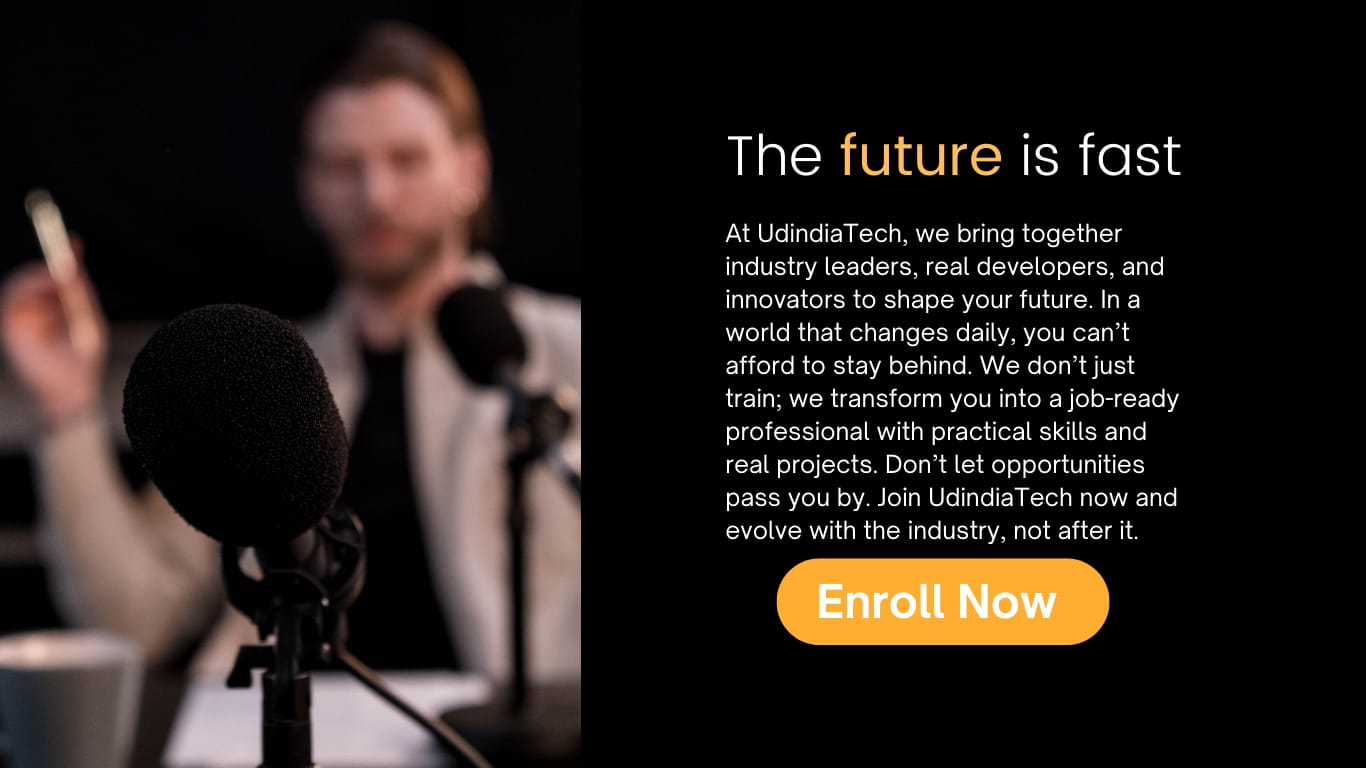
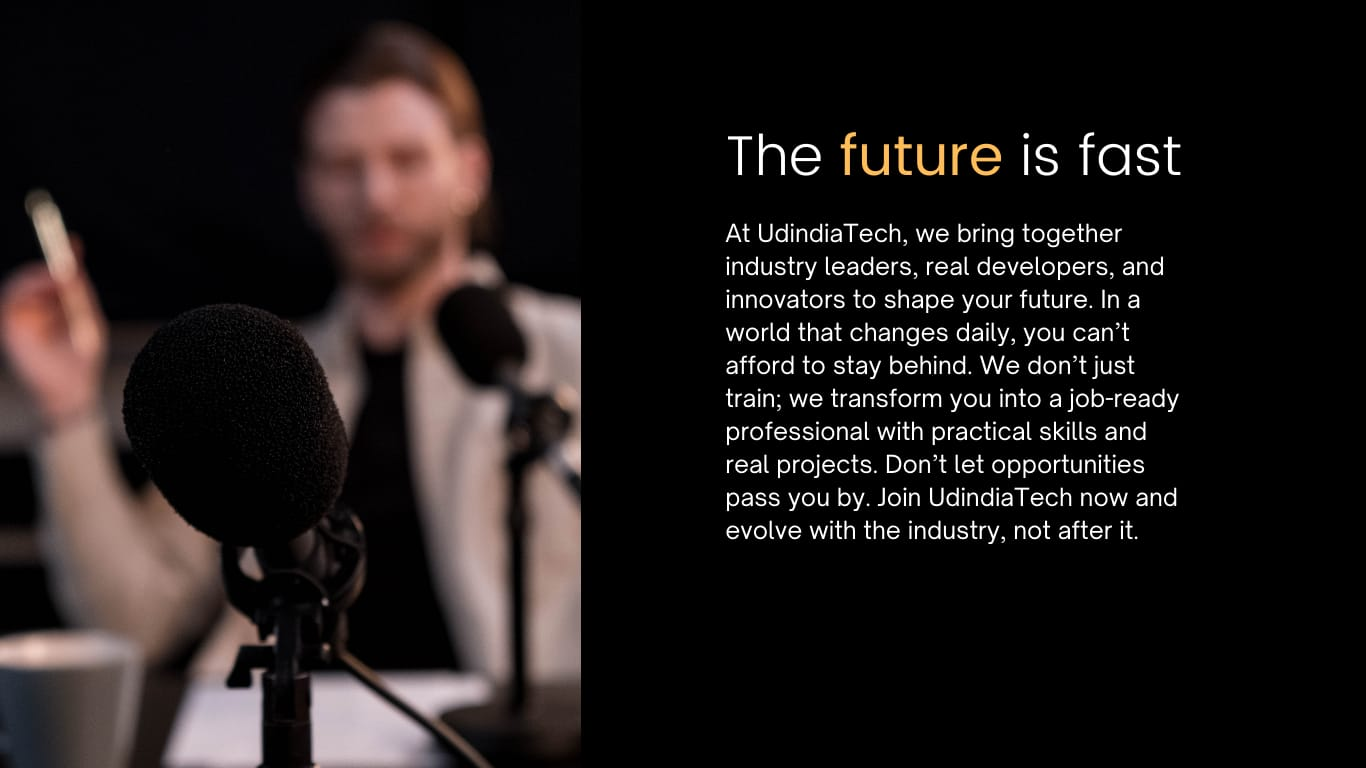
images nested folder, enroll form added, training image, why to choose

Changed region(s): [[0.5534, 0.7188, 0.8302, 0.8438]]

diff --git a/index.html b/index.html
@@ -5,6 +5,7 @@
   <meta charset="UTF-8">
   <meta name="viewport" content="width=device-width, initial-scale=1.0">
   <title>UdindiaTech - Premium IT Training</title>
+  <link rel="icon" href="images/UD logo.jpg" type="image/x-icon">
   <link rel="stylesheet" href="style.css" />
   <!-- tailwind adding -->
   <script src="https://cdn.tailwindcss.com"></script>
@@ -111,8 +112,8 @@
       padding: 40px 20px;
       text-align: center;
     }
-
-    .courses,
+/* partners css    style */
+    /* .courses, */
     .partners {
       display: flex;
       flex-wrap: wrap;
@@ -120,12 +121,12 @@
       gap: 20px;
     }
 
-    .course {
+    /* .course {
       background: #f0f0f0;
       padding: 15px;
       border-radius: 8px;
       width: 200px;
-    }
+    } */
 
     .partner {
       /* background: #f0f0f0; */
@@ -137,7 +138,7 @@
     /* ======================================== */
     .partner>a>img {
       border-radius: 20px;
-      height: 8rem;
+      height: 7rem;
       width: 12rem;
 
     }
@@ -149,6 +150,43 @@
       text-align: center;
       padding: 20px;
     }
+
+    /* Course css */
+ .courses {
+  display: grid;
+  grid-template-columns: repeat(auto-fit, minmax(220px, 1fr));
+  gap: 20px;
+  padding: 0 20px;
+}
+
+.course-card {
+  background: #f9f9f9;
+  border: 1px solid #ddd;
+  border-radius: 10px;
+  overflow: hidden;
+  text-align: center;
+  text-decoration: none;
+  color: black;
+  transition: 0.3s;
+}
+
+.course-card:hover {
+  transform: translateY(-5px);
+  box-shadow: 0 10px 20px rgba(0, 0, 0, 0.1);
+}
+
+.course-card img {
+  width: 100%;
+  height: 150px;
+  object-fit: cover;
+}
+
+.course-card div {
+  padding: 15px;
+}
+.hidden-course {
+  display: none;
+}
 
     @media(max-width:600px) {
 
@@ -220,12 +258,13 @@
     <!-- Navigation Links -->
     <div class="nav-links" id="navLinks">
       <a href="#">Home</a>
-      <a href="#courses">Courses</a>
+      <a href="#Trainings">Trainings</a>
       <a href="#partners">Placements</a>
       <a href="#about">About</a>
       <a href="#testimonials">Testimonials</a>
       <a href="#contact">Contact</a>
-      <a href="#enroll" class="button">Enroll Now</a>
+      <a href="https://docs.google.com/forms/d/e/1FAIpQLSdadHimci_y-aQBjbMR57K5SyL8CN7SacE4-4gFTyedFW6GAA/viewform"
+        target="_blank" class="button">Enroll Now</a>
     </div>
   </div>
   <!-- Slider -->
@@ -241,6 +280,16 @@
       </div>
       <div class="swiper-slide">
         <img src="images/Slider2.jpeg" alt="Slide 2" class="w-full h-full object-cover" />
+        <!-- Enroll button -->
+        <a href="https://docs.google.com/forms/d/e/1FAIpQLSdadHimci_y-aQBjbMR57K5SyL8CN7SacE4-4gFTyedFW6GAA/viewform"
+          target="_blank" class="absolute bottom-4 left-[70%] -translate-x-1/2
+            sm:bottom-10 sm:left-[70%] sm:-translate-x-1/2
+            bg-yellow-400 text-black font-semibold
+            text-xs px-3 py-2
+            sm:text-lg sm:px-6 sm:py-2
+            rounded-full shadow-md hover:bg-yellow-500 transition z-10">
+          Enroll Now
+        </a>
       </div>
       <div class="swiper-slide">
         <img src="images/Slider3.jpeg" alt="Slide 3" class="w-full h-full object-cover" />
@@ -290,33 +339,137 @@
 
 
   <!-- Our Training -->
-  <div class="section" id="courses">
-    <h2 class="text-4xl font-bold text-center text-black mb-8">Our Training Programs</h2>
-    <div class="courses">
-      <div class="course"><strong>Python Full Stack</strong><br>₹4,399/-<br>3 Months</div>
-      <div class="course"><strong>Java Full Stack</strong><br>₹4,999/-<br>3 Months</div>
-      <div class="course"><strong>MERN Stack</strong><br>₹4,399/-<br>3 Months</div>
-      <div class="course"><strong>UI/UX Design</strong><br>₹2,399/-<br>2 Months</div>
-      <div class="course"><strong>Cloud/DevOps</strong><br>₹4,999/-<br>2 Months</div>
-      <div class="course"><strong>Data Analyst</strong><br>₹3,999/-<br>2 Months</div>
-    </div>
+<div class="section" id="Trainings">
+  <h2 class="text-4xl font-bold text-center text-black mb-8">Our Training Programs</h2>
+
+  <div class="courses">
+    <a id="enrollBtn1" target="_blank" href="https://example.com/python-form" class="course-card">
+      <img src="images/Course/python_fsd.png" alt="Python Full Stack" />
+      <div><strong>Python Full Stack</strong><br><small><i>Durations:</i>&nbsp;3 Months</small><br><small
+          class="text-gray-600">Know more</small></div>
+    </a>
+
+    <a id="enrollBtn2" target="_blank" href="https://example.com/java-form" class="course-card">
+      <img src="images/Course/java_fsd.png" alt="Java Full Stack" />
+      <div><strong>Java Full Stack Developer</strong><br><small><i>Durations:</i>&nbsp;3 Months</small><br><small
+          class="text-gray-600">Know more</small></div>
+    </a>
+
+    <a id="enrollBtn3" target="_blank" href="https://example.com/java-form" class="course-card">
+      <img src="images/Course/mern_fsd.png" alt="MERN Stack Developer" />
+      <div><strong>MERN Stack Developer</strong><br><small><i>Durations:</i>&nbsp;3 Months</small><br><small
+          class="text-gray-600">Know more</small></div>
+    </a>
+
+    <a id="enrollBtn4" target="_blank" href="https://example.com/java-form" class="course-card">
+      <img src="images/Course/php_develper.png" alt="PHP Developer–Laravel" />
+      <div><strong>PHP Developer–Laravel</strong><br><small><i>Durations:</i>&nbsp;3 Months</small><br><small
+          class="text-gray-600">Know more</small></div>
+    </a>
+
+    <a id="enrollBtn5" target="_blank" href="https://example.com/java-form" class="course-card">
+      <img src="images/Course/frontend_developer.png" alt="Frontend Developer - React JS " />
+      <div><strong>Frontend Developer - React JS </strong><br><small><i>Durations:</i>&nbsp;3 Months</small><br><small
+          class="text-gray-600">Know more</small></div>
+    </a>
+
+    <a id="enrollBtn6" target="_blank" href="https://example.com/java-form" class="course-card">
+      <img src="images/Course/backend_developer.png" alt="Backend Developer" />
+      <div><strong>Backend Developer</strong><br><small><i>Durations:</i>&nbsp;3 Months</small><br><small
+          class="text-gray-600">Know more</small></div>
+    </a>
+    <a id="enrollBtn7" target="_blank" href="https://example.com/java-form" class="course-card">
+      <img src="images/Course/UIUX.png" alt="UI/UX" />
+      <div><strong>UI/UX</strong><br><small><i>Durations:</i>&nbsp;3 Months</small><br><small
+          class="text-gray-600">Know more</small></div>
+    </a>
+    <a id="enrollBtn8" target="_blank" href="https://example.com/java-form" class="course-card">
+      <img src="images/Course/data_analyst.png" alt="Data Analyst" />
+      <div><strong>Data Analyst</strong><br><small><i>Durations:</i>&nbsp;3 Months</small><br><small
+          class="text-gray-600">Know more</small></div>
+    </a>
+    <a id="enrollBtn9" target="_blank" href="https://example.com/java-form" class="course-card">
+      <img src="images/Course/data_mining.png" alt="Data Mining Specialist" />
+      <div><strong>Data Mining Specialist</strong><br><small><i>Durations:</i>&nbsp;3 Months</small><br><small
+          class="text-gray-600">Know more</small></div>
+    </a>
+    <a id="enrollBtn10" target="_blank" href="https://example.com/java-form" class="course-card">
+      <img src="images/Course/digital_marketing.png" alt="Digital Marketing" />
+      <div><strong>Digital Marketing</strong><br><small><i>Durations:</i>&nbsp;3 Months</small><br><small
+          class="text-gray-600">Know more</small></div>
+    </a>
+    <a id="enrollBtn11" target="_blank" href="https://example.com/java-form" class="course-card hidden-course">
+      <img src="images/Course/database_management.png" alt="Database Management" />
+      <div><strong>Database Management</strong><br><small><i>Durations:</i>&nbsp;3 Months</small><br><small
+          class="text-gray-600">Know more</small></div>
+    </a>
+    <a id="enrollBtn12" target="_blank" href="https://example.com/java-form" class="course-card hidden-course">
+      <img src="images/Course/cloud_computing.png" alt="Cloud Computing / DevOps" />
+      <div><strong>Cloud Computing / DevOps</strong><br><small><i>Durations:</i>&nbsp;3 Months</small><br><small
+          class="text-gray-600">Know more</small></div>
+    </a>
+    <a id="enrollBtn13" target="_blank" href="https://example.com/java-form" class="course-card hidden-course">
+      <img src="images/Course/android_developer.png" alt="App / Android Development" />
+      <div><strong>App / Android Development</strong><br><small><i>Durations:</i>&nbsp;3 Months</small><br><small
+          class="text-gray-600">Know more</small></div>
+    </a>
+     <a id="enrollBtn14" target="_blank" href="https://example.com/java-form" class="course-card hidden-course">
+      <img src="images/Course/flutter_developer.png" alt="Flutter App Development Training" />
+      <div><strong>Flutter App Development Training</strong><br><small><i>Durations:</i>&nbsp;3 Months</small><br><small
+          class="text-gray-600">Know more</small></div>
+    </a>
+     <a id="enrollBtn15" target="_blank" href="https://example.com/java-form" class="course-card hidden-course">
+      <img src="images/Course/cyber_security.png" alt="Cyber Security" />
+      <div><strong>Cyber Security</strong><br><small><i>Durations:</i>&nbsp;3 Months</small><br><small
+          class="text-gray-600">Know more</small></div>
+    </a>
+         <a id="enrollBtn16" target="_blank" href="https://example.com/java-form" class="course-card hidden-course">
+      <img src="images/Course/graphic_designer.png" alt="Graphic Designing" />
+      <div><strong>Graphic Designing</strong><br><small><i>Durations:</i>&nbsp;3 Months</small><br><small
+          class="text-gray-600">Know more</small></div>
+    </a>
+         <a id="enrollBtn17" target="_blank" href="https://example.com/java-form" class="course-card hidden-course">
+      <img src="images/Course/arduino.png" alt="Arduino Robo Training" />
+      <div><strong>Arduino Robo Training</strong><br><small><i>Durations:</i>&nbsp;3 Months</small><br><small
+          class="text-gray-600">Know more</small></div>
+    </a>
+             <a id="enrollBtn18" target="_blank" href="https://example.com/java-form" class="course-card hidden-course">
+      <img src="images/Course/IOT.png" alt="IoT" />
+      <div><strong>IoT</strong><br><small><i>Durations:</i>&nbsp;3 Months</small><br><small
+          class="text-gray-600">Know more</small></div>
+    </a>
+    <!-- <a href="https://example.com/java-form" class="course-card">
+      
+      <div><strong>+50 Courses</strong><br><small>Know more</small></div>
+    </a> -->
   </div>
+  <div style="text-align: center; margin-top: 20px;">
+    <button onclick="showMoreCourses()" id="moreBtn"
+      style="padding: 10px 20px; background: #facc15; border: none; border-radius: 5px; font-weight: bold; cursor: pointer;">
+      View More Training
+    </button>
+  </div>
+</div>
+
 
   <!-- Placement Partners -->
   <div class="section" id="partners">
     <h2 class="text-4xl font-bold text-center text-black mb-8">Placement Partners</h2>
     <div class="partners">
-      <div class="partner"><a href="#"><img src="images/Cloudcredit tech.jpg"
-            alt="Cloudcredit technologies pvt ltd"></a></div>
-      <div class="partner"><a href="#"><img src="images/Technohack.png" alt="Technohack solutions pvt ltd"></a></div>
-      <div class="partner"><a href="#"><img src="images/Codealpha.jpg" alt="CodeAlpha"></a></div>
-      <div class="partner"><a href="#"><img src="images/codtech.jpg" alt="Codtech"></a></div>
-      <div class="partner"><a href="#"><img src="images/prodigy.jpg" alt="Prodigy infotech"></a></div>
-      <div class="partner"><a href="#"><img src="images/softechnova.jpg" alt="Softechnova Enterprises"></a></div>
-      <div class="partner"><a href="#"><img src="images/oasis.jpg" alt="oasis infobyte"></a></div>
-      <div class="partner"><a href="#"><img src="images/cognifyz.png" alt="Cognifyz technology"></a></div>
-      <div class="partner"><a href="#"><img src="images/hex.png" alt="Hexsoftwares"></a></div>
-      <div class="partner"><a href="#"><img src="images/pinnacle.png" alt="Pinnacle"></a></div>
+            <div class="partner"><a href="#"><img src="images/partners/google.png" alt="Google"></a></div>
+      <div class="partner"><a href="#"><img src="images/partners/microsoft.png" alt="Technohack solutions pvt ltd"></a></div>
+      <div class="partner"><a href="#"><img src="images/partners/amazon.png" alt="Technohack solutions pvt ltd"></a></div>
+      <div class="partner"><a href="#"><img src="images/partners/colgate.png" alt="Technohack solutions pvt ltd"></a></div>
+      <div class="partner"><a href="#"><img src="images/partners/Cloudcredit tech.jpg"alt="Cloudcredit technologies pvt ltd"></a></div>
+      <div class="partner"><a href="#"><img src="images/partners/Technohack.png" alt="Technohack solutions pvt ltd"></a></div>
+      <div class="partner"><a href="#"><img src="images/partners/Codealpha.jpg" alt="CodeAlpha"></a></div>
+      <div class="partner"><a href="#"><img src="images/partners/codtech.jpg" alt="Codtech"></a></div>
+      <div class="partner"><a href="#"><img src="images/partners/prodigy.jpg" alt="Prodigy infotech"></a></div>
+      <div class="partner"><a href="#"><img src="images/partners/softechnova.jpg" alt="Softechnova Enterprises"></a></div>
+      <div class="partner"><a href="#"><img src="images/partners/oasis.jpg" alt="oasis infobyte"></a></div>
+      <div class="partner"><a href="#"><img src="images/partners/cognifyz.png" alt="Cognifyz technology"></a></div>
+      <div class="partner"><a href="#"><img src="images/partners/hex.png" alt="Hexsoftwares"></a></div>
+      <div class="partner"><a href="#"><img src="images/partners/pinnacle.png" alt="Pinnacle"></a></div>
     </div>
   </div>
 
@@ -337,7 +490,7 @@
 
         <span class="block mb-4">Believing in giving back to mankind, we offer affordable, industry-focused IT training
           programs, ensuring students and freshers gain practical skills with guaranteed internships or job
-          opportunities upon course completion.</span>
+          opportunities upon training completion.</span>
 
         <span class="block font-semibold mt-6 text-black text-xl">✨ Why businesses and learners trust
           UdindiaTech:</span>
@@ -368,9 +521,13 @@
     <h2 class="section-title">Why Choose <span style="color:#2563EB">UdindiaTech?</span></h2>
 
     <div class="points">
-      <p class="point">✅ 80% Scholarship on All Courses</p>
+
+      <p class="point">✅ 80% Scholarship on All Trainings</p>
+      <p class="point">✅ 100% Job or Internship Guarantee</p>
+      <p class="point">✅ 50+ Placements Partners</p>
       <p class="point">✅ Industry Expert Trainers</p>
       <p class="point">✅ Industries-Based Training</p>
+      <p class="point">✅ Resume Building & Interview Preparation</p>
       <p class="point">✅ Certificate & Placement Assistance</p>
     </div>
   </div>
@@ -453,7 +610,7 @@
         <ul class="space-y-2 text-sm text-gray-300">
           <li><a href="#home" class="hover:text-white transition">Home</a></li>
           <li><a href="#about" class="hover:text-white transition">About Us</a></li>
-          <li><a href="#services" class="hover:text-white transition">Services</a></li>
+          <li><a href="#training" class="hover:text-white transition">Trainings</a></li>
           <li><a href="#projects" class="hover:text-white transition">Projects</a></li>
           <li><a href="#contact" class="hover:text-white transition">Contact</a></li>
         </ul>
@@ -461,7 +618,7 @@
 
       <!-- Courses -->
       <div>
-        <h3 class="text-lg font-semibold mb-4">Our Courses</h3>
+        <h3 class="text-lg font-semibold mb-4">Our Training</h3>
         <ul class="space-y-2 text-sm text-gray-300">
           <li>Full Stack Development</li>
           <li>Cloud Computing</li>
@@ -495,6 +652,15 @@
 
 </body>
 <script>
+  //courses 
+  function showMoreCourses() {
+    const hiddenCourses = document.querySelectorAll('.hidden-course');
+    hiddenCourses.forEach(course => {
+      course.style.display = 'block';
+    });
+    document.getElementById('moreBtn').style.display = 'none';
+  }
+
   function toggleMenu() {
     const menu = document.getElementById('navLinks');
     menu.classList.toggle('show');
@@ -649,6 +815,14 @@
 
   points.forEach(point => observer.observe(point));
 
+// Update link js
+  const updatedEnrollLink = "https://docs.google.com/forms/d/e/1FAIpQLSdadHimci_y-aQBjbMR57K5SyL8CN7SacE4-4gFTyedFW6GAA/viewform"; // change this in future
+
+  // Loop through all IDs
+  for (let i = 1; i <= 18; i++) {
+    const btn = document.getElementById(`enrollBtn${i}`);
+    if (btn) btn.href = updatedEnrollLink;
+  }
 </script>
 
 </html>
